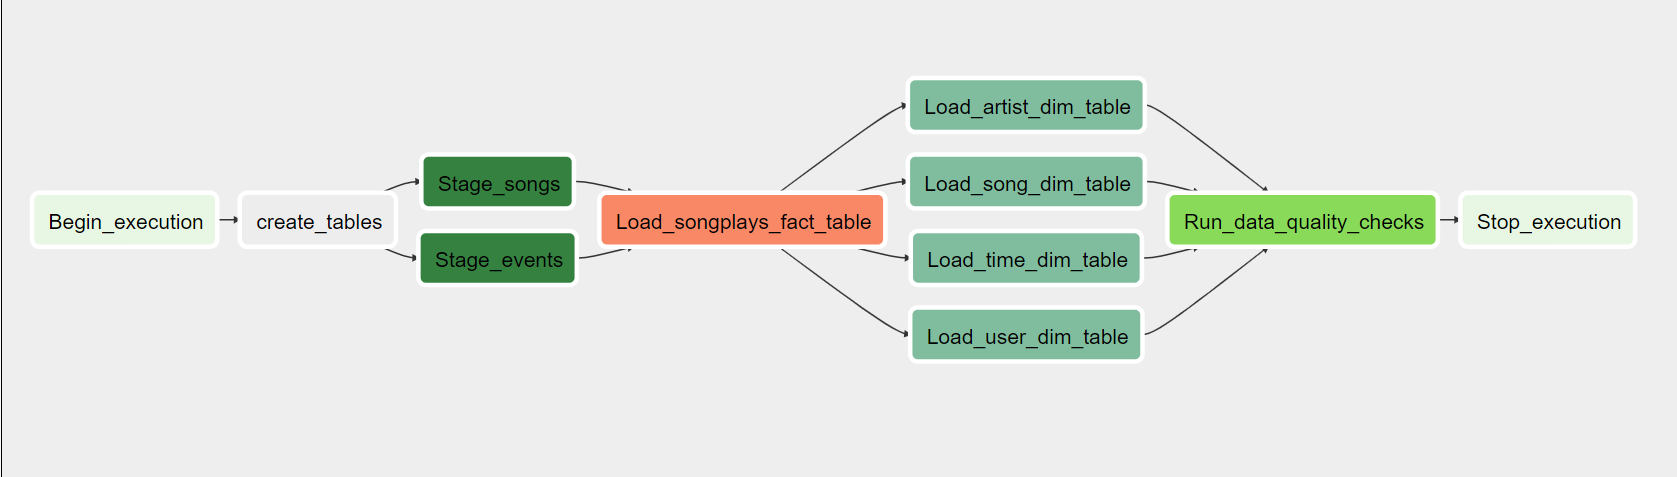
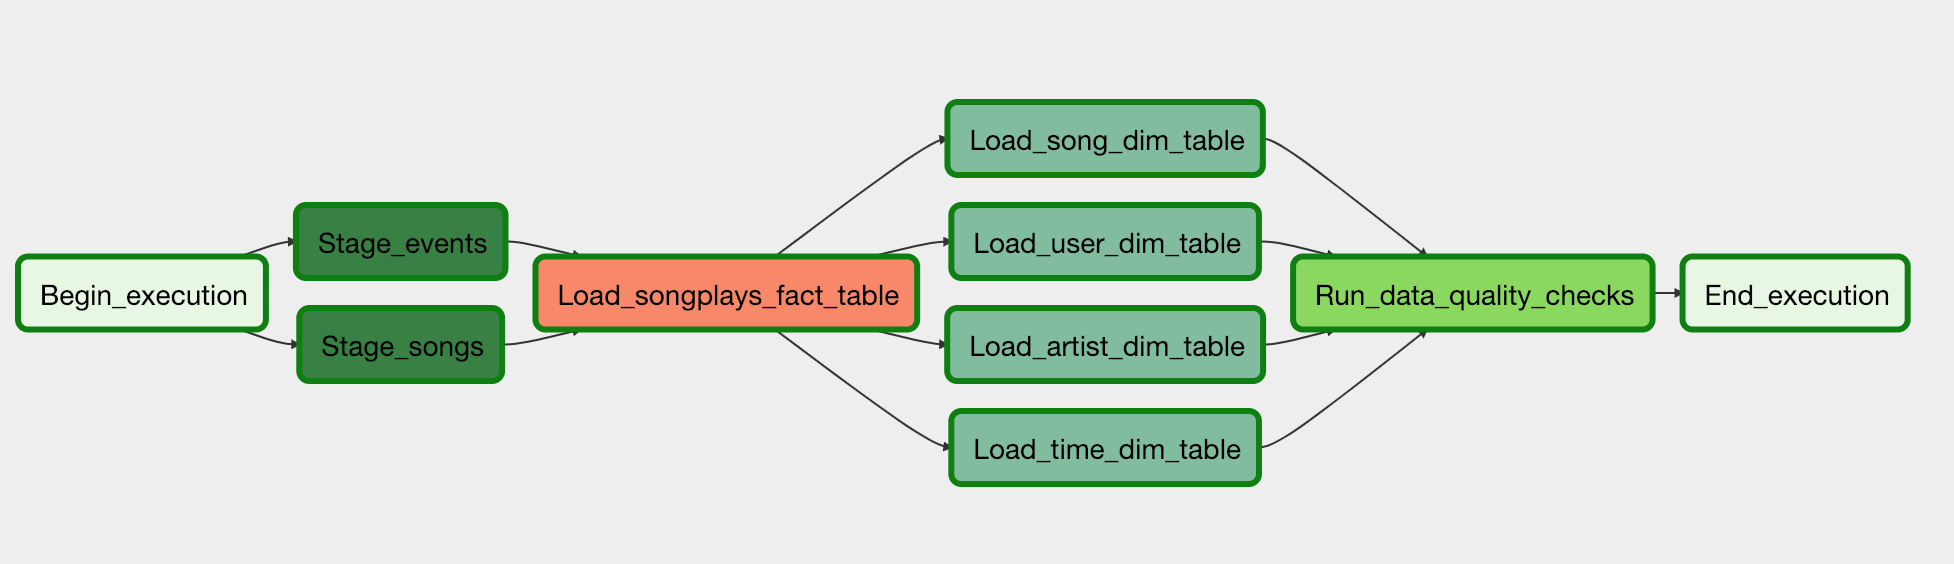
Changes as per the review
Data Quality operator changed to accept the real and the expected result;
Create Tables is removed from DAG, DAG is reorganized;
Info logging is added to operator classes;
readme file is updated with new picture

Changed region(s): [[0.0, 0.1468, 0.9922, 0.8805]]

diff --git a/dags/processing_dag.py b/dags/processing_dag.py
@@ -2,8 +2,12 @@ from datetime import datetime, timedelta
 import os
 from airflow import DAG
 from airflow.operators.dummy_operator import DummyOperator
-from airflow.operators import (StageToRedshiftOperator, LoadFactOperator, PostgresOperator,
-                                LoadDimensionOperator, DataQualityOperator)
+from operators.stage_redshift import StageToRedshiftOperator
+from operators.load_fact import LoadFactOperator
+from operators.load_dimension import LoadDimensionOperator
+from operators.data_quality import DataQualityOperator
+from airflow.operators import (PostgresOperator)
+
 from helpers import SqlQueries
 
 default_args = {
@@ -24,14 +28,6 @@ dag = DAG('processing_dag',
           template_searchpath = ['/home/workspace/airflow'],
           schedule_interval='@hourly')
 
-
-create_tables = PostgresOperator(
-    task_id="create_tables",
-    dag=dag,
-    postgres_conn_id="redshift",
-    sql='create_tables.sql'
-)
-
 start_operator = DummyOperator(task_id='Begin_execution',  dag=dag)
 
 stage_events_to_redshift = StageToRedshiftOperator(
@@ -41,7 +37,8 @@ stage_events_to_redshift = StageToRedshiftOperator(
     aws_credentials_id="aws_credentials",
     table="staging_events",
     s3_path = "s3://udacity-dend/log_data",
-    json_path = "s3://udacity-dend/log_json_path.json")
+    json_path = "s3://udacity-dend/log_json_path.json"
+    )
 
 stage_songs_to_redshift = StageToRedshiftOperator(
     task_id='Stage_songs',
@@ -51,7 +48,7 @@ stage_songs_to_redshift = StageToRedshiftOperator(
     table="staging_songs",
     s3_path="s3://udacity-dend/song_data",
     json_path="auto"
-)
+    )
 
 load_songplays_table = LoadFactOperator(
     task_id='Load_songplays_fact_table',
@@ -60,8 +57,7 @@ load_songplays_table = LoadFactOperator(
     table = "songplays",
     append = False,
     query = SqlQueries.songplay_table_insert    
-    
-)
+    )
 
 load_user_dimension_table = LoadDimensionOperator(
     task_id='Load_user_dim_table',
@@ -70,7 +66,7 @@ load_user_dimension_table = LoadDimensionOperator(
     table = "users",
     append = False,
     query = SqlQueries.user_table_insert
-)
+    )
 
 load_song_dimension_table = LoadDimensionOperator(
     task_id='Load_song_dim_table',
@@ -88,7 +84,7 @@ load_artist_dimension_table = LoadDimensionOperator(
     table = "artists",
     append = False,
     query = SqlQueries.artist_table_insert
-)
+    )
 
 load_time_dimension_table = LoadDimensionOperator(
     task_id='Load_time_dim_table',
@@ -103,15 +99,18 @@ run_quality_checks = DataQualityOperator(
     task_id='Run_data_quality_checks',
     dag=dag, 
     redshift_conn_id = "redshift",
-    tables = ["songplays", "songs", "artists", "users", "time"]
-)
+    dq_checks=[{'table': 'songplays', 'check_sql': SqlQueries.songplays_table_check, 'expected_result': 0},
+                {'table': 'songs', 'check_sql': SqlQueries.songs_table_check, 'expected_result': 0},
+                {'table': 'artists', 'check_sql': SqlQueries.artists_table_check, 'expected_result': 0},
+                {'table': 'users', 'check_sql': SqlQueries.users_table_check, 'expected_result': 0},
+                {'table': 'time', 'check_sql': SqlQueries.time_table_check, 'expected_result': 0}
+              ])
 
 end_operator = DummyOperator(task_id='Stop_execution',  dag=dag)
 
 
-start_operator >> create_tables
-create_tables >> stage_events_to_redshift
-create_tables >> stage_songs_to_redshift
+start_operator >> stage_events_to_redshift
+start_operator >> stage_songs_to_redshift
 stage_events_to_redshift >> load_songplays_table
 stage_songs_to_redshift >> load_songplays_table
 load_songplays_table >> load_user_dimension_table

diff --git a/plugins/operators/data_quality.py b/plugins/operators/data_quality.py
@@ -9,7 +9,7 @@ class DataQualityOperator(BaseOperator):
     @apply_defaults
     def __init__(self,
                  redshift_conn_id = "",
-                 tables = [],
+                 dq_checks = [],
                  *args, **kwargs):
 
         super(DataQualityOperator, self).__init__(*args, **kwargs)
@@ -17,19 +17,17 @@ class DataQualityOperator(BaseOperator):
         # Example:
         # self.conn_id = conn_id
         self.redshift_conn_id = redshift_conn_id
-        self.tables = tables
+        self.dq_checks = dq_checks
     def execute(self, context):
-        self.log.info('Running data quality test')
+        self.log.info('Running data quality tests')
         redshift = PostgresHook(postgres_conn_id=self.redshift_conn_id)  
-        for table in self.tables:
-            self.log.info('Testing {}', table)
-            records = redshift.get_records("SELECT COUNT(*) FROM {}".format(table))
-            if len(records) < 1 or len(records[0]) < 1:
-                raise ValueError(f"Data quality check failed. {table} returned no results")
+        for dic in self.dq_checks:
+            self.log.info(f"Testing the table {dic['table']}")
+            actual_result = redshift.get_records(dic['check_sql'])
+            if actual_result[0][0] == dic['expected_result']:
+                self.log.info("The test is passed")    
+            else:
+                self.log.error(f"{actual_result}, {dic['expected_result']}")
+                raise ValueError(f"Data quality check failed. The table is {dic['table']}")
             
-            num_records = records[0][0]
-            if num_records < 1:
-                raise ValueError(f"Data quality check failed. {table} contained 0 rows")
-            logging.info(f"Data quality on table {table} check passed with {records[0][0]} records")
         
-                      

diff --git a/plugins/operators/stage_redshift.py b/plugins/operators/stage_redshift.py
@@ -42,15 +42,15 @@ class StageToRedshiftOperator(BaseOperator):
 
 
     def execute(self, context):
-        #self.log.info('StageToRedshiftOperator not implemented yet')
+        self.log.info('Getting credentials')
         redshift_hook = PostgresHook(self.redshift_conn_id)
         aws_hook = AwsHook(self.aws_credentials_id)
         credentials = aws_hook.get_credentials()
         
         self.log.info("Clearing data from destination Redshift table")
         redshift_hook.run("DELETE FROM {}".format(self.table))
-        self.log.info("Copying data from S3 to Redshift")
         
+        self.log.info("Copying data from S3 to Redshift")
         if (self.execution_date is None):
             final_query = StageToRedshiftOperator.copy_sql.format(
             self.table, 
@@ -71,7 +71,6 @@ class StageToRedshiftOperator(BaseOperator):
             credentials.secret_key, 
             self.json_path
             )
-        
         
         redshift_hook.run(final_query)
         

diff --git a/plugins/helpers/sql_queries.py b/plugins/helpers/sql_queries.py
@@ -40,3 +40,37 @@ class SqlQueries:
                extract(month from start_time), extract(year from start_time), extract(dayofweek from start_time)
         FROM songplays
     """)
+    
+    # DATA QUALITY CHECK FOR TABLES ["songplays", "songs", "artists", "users", "time"]
+    
+    songplays_table_check = ("""
+        SELECT count(*) 
+        FROM songplays
+        WHERE playid IS NULL
+        """)
+    
+    songs_table_check = ("""
+        SELECT count(*)
+        FROM songs
+        WHERE songid IS NULL
+    """)
+    
+    artists_table_check = ("""
+        SELECT count(*)
+        FROM artists
+        WHERE artistid IS NULL
+    """)
+    
+    users_table_check = ("""
+        SELECT count(*)
+        FROM users
+        WHERE userid IS NULL
+    """)
+    
+    time_table_check = ("""
+        SELECT count(*)
+        FROM time
+        WHERE start_time IS NULL
+    """)
+    
+    

diff --git a/plugins/operators/load_dimension.py b/plugins/operators/load_dimension.py
@@ -23,7 +23,7 @@ class LoadDimensionOperator(BaseOperator):
 
         
     def execute(self, context):
-        #self.log.info('LoadDimensionOperator not implemented yet')
+        self.log.info('Getting credentials')
         redshift = PostgresHook(postgres_conn_id=self.redshift_conn_id)
         
         if not self.append:

diff --git a/plugins/operators/load_fact.py b/plugins/operators/load_fact.py
@@ -23,7 +23,7 @@ class LoadFactOperator(BaseOperator):
 
         
     def execute(self, context):
-        #self.log.info('LoadFactOperator not implemented yet')
+        self.log.info('Getting credentials')
         redshift = PostgresHook(postgres_conn_id=self.redshift_conn_id)
         
         if not self.append:
